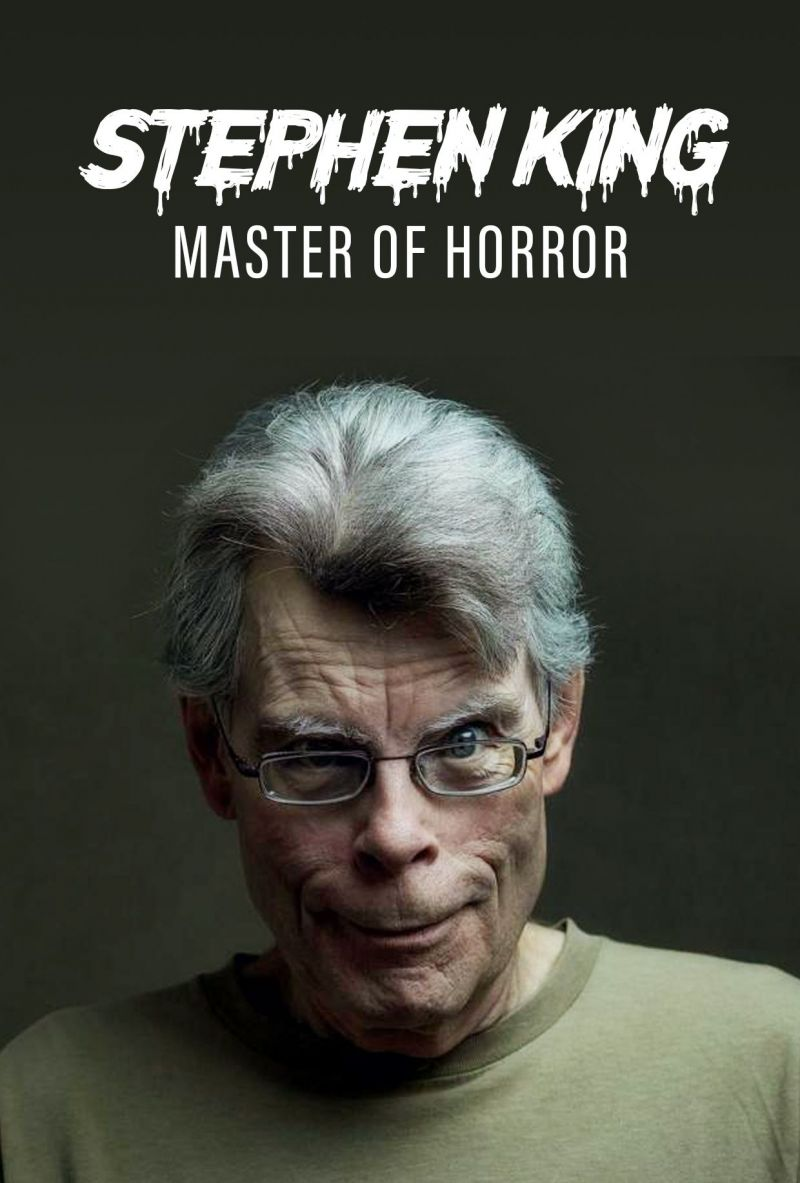
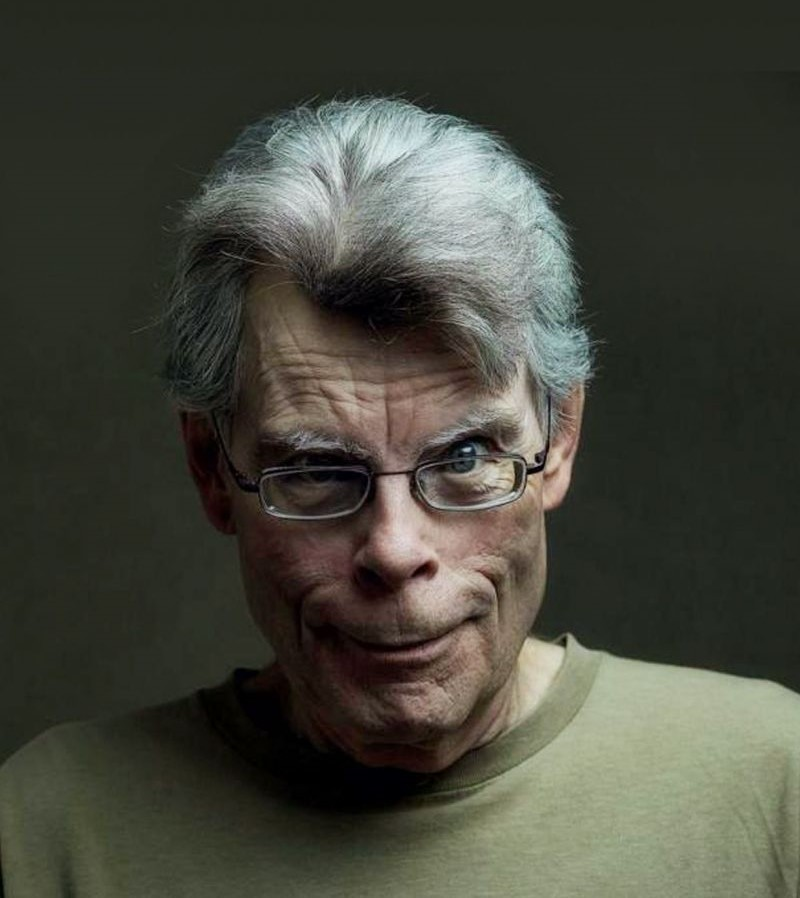
Added new responsive grid section
"Who is Stephen king"

- grid with responsive media for mobile

diff --git a/index.html b/index.html
@@ -25,9 +25,43 @@
             <h1>Stephen King</h1>
             <h3>American Author</h3>
           </div>
-          <button class="learn-more"><a href="#">Learn More</a></button>
+          <button>
+            <a href="#who" title="learn more about stephen king">Learn More</a>
+          </button>
         </div>
       </header>
+      <section class="grid grid-2-columns" id="who">
+        <div>
+          <img
+            class="img-responsive"
+            src="images/stephen-king-headshot.jpg"
+            alt="headshot of author Stephen King"
+          />
+        </div>
+        <div>
+          <h5>who</h5>
+          <h2>Who is Stephen King?</h2>
+          <p>
+            Stephen Edwin King (born September 21, 1947) is an American author
+            of horror, supernatural fiction, suspense, crime, science-fiction,
+            and fantasy novels. Described as the "King of Horror", his books
+            have sold more than 350 million copies as of 2006, and many have
+            been adapted into films, television series, miniseries, and comic
+            books. King has published over 65 novels/novellas, including seven
+            under the pen name Richard Bachman, and five non-fiction books. He
+            has also written approximately 200 short stories, most of which have
+            been published in book collections.
+          </p>
+          <button>
+            <a
+              href="https://en.wikipedia.org/wiki/Stephen_King"
+              target="_blank"
+              title="wikipedia page about stephen king"
+              >Read More</a
+            >
+          </button>
+        </div>
+      </section>
     </div>
   </body>
 </html>

diff --git a/src/styles.css b/src/styles.css
@@ -40,6 +40,10 @@ h1 {
   font-size: 128px;
   margin-bottom: 16px;
 }
+h2 {
+  font-size: 48px;
+  color: var(--primary-dark);
+}
 h3 {
   font-weight: 700;
   font-size: 40px;
@@ -50,20 +54,32 @@ h4 {
   font-size: 24px;
   letter-spacing: 5px;
 }
-.container {
-  max-width: 1400px;
-  width: 98vw;
-  margin: 0 auto;
+h5 {
+  font-weight: 700;
+  font-size: 13px;
+  letter-spacing: 5px;
+  text-transform: uppercase;
+  color: var(--accent-color);
+  padding-left: 11px;
+  border-left: solid 5px var(--accent-color);
+  margin-bottom: 7px;
 }
-.header-main {
-  margin: 64px 0;
+p {
+  font-weight: 400;
+  font-size: 16px;
+  color: var(--primary-dark);
+  opacity: 70%;
+  margin: 32px 0;
+  line-height: 26px;
 }
-.learn-more {
+
+button {
   padding: 16px 32px;
   background-color: var(--accent-color);
   border: none;
+  border-radius: 5px;
 }
-.learn-more a {
+button a {
   font-weight: 700;
   font-family: var(--main-font);
   font-size: 14px;
@@ -72,8 +88,34 @@ h4 {
   text-transform: uppercase;
   color: var(--primary-light);
 }
+section {
+  max-width: 100%;
+  margin: 0 auto;
+  padding: 100px;
+}
+.container {
+  max-width: 1400px;
+  width: 98vw;
+  margin: 0 auto;
+}
+.header-main {
+  margin: 64px 0;
+}
 .header-content {
   padding: 214px 0;
+}
+.img-responsive {
+  width: 100%;
+  display: block;
+  border-radius: 20px;
+}
+.grid {
+  display: grid;
+  grid-gap: 64px;
+  align-items: center;
+}
+.grid-2-columns {
+  grid-template-columns: 1fr 1fr;
 }
 
 @media (max-width: 960px) {
@@ -91,5 +133,8 @@ h4 {
   }
   .header-main {
     margin: 32px 0;
+  }
+  .grid-2-columns {
+    grid-template-columns: 1fr;
   }
 }
